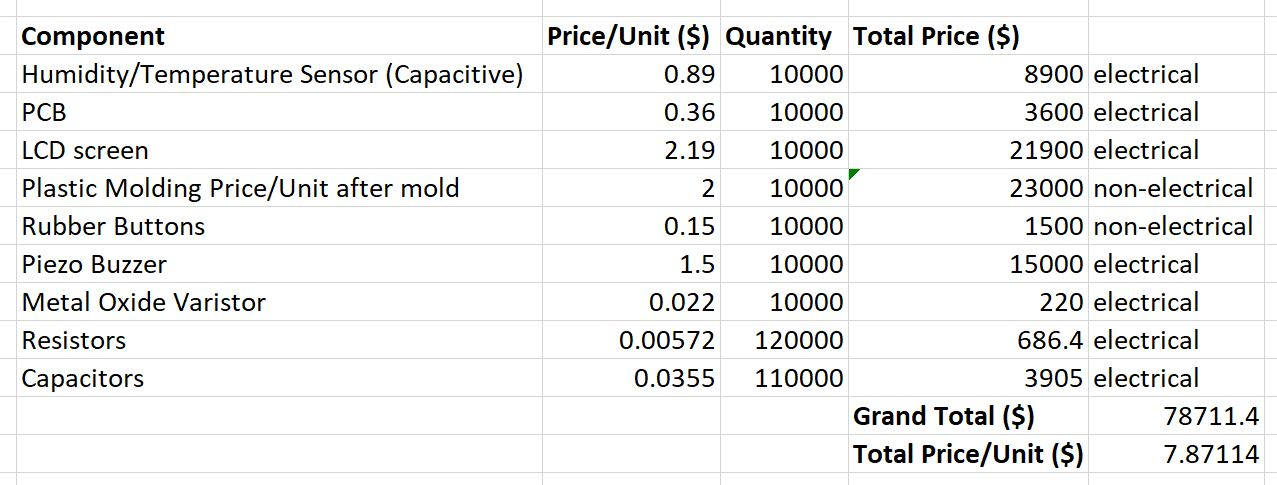
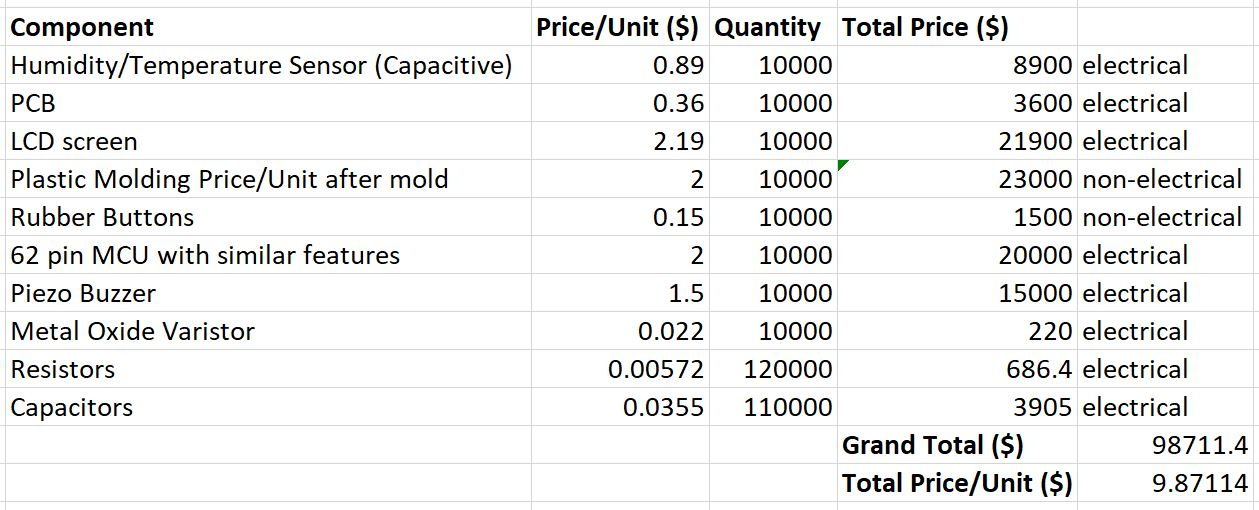
added MCU to BOM and changed some grammer

diff --git a/Market.html b/Market.html
@@ -93,11 +93,11 @@
                 <div class="u-container-layout u-container-layout-1">
                   <p class="u-large-text u-text u-text-default u-text-variant u-text-1">
                     <span style="font-weight: 700;">Product History</span>
-                    <br>La Crosse Technology is a electrical device manufacturer of weather stations, radio-controlled, clocks, and watches.The company started in 1985 and the products are in retail stores in North America. It is a low-end market electronic temperature and humidity sensor.<br>
+                    <br>La Crosse Technology is a electrical device manufacturer of weather stations, radio-controlled clocks, and watches.The company started in 1985 and the products are in retail stores in North America. It is a low-end market electronic temperature and humidity sensor.<br>
                     <span style="font-weight: 700;">Street Prices<br>
                     </span>I paid $13.98 for this device at Lowe's. Other options for the purchase of this product are directly from La Crosse ($23.95), or from other retailers, Amazon ($13.49), WeatherShack ($22.95), or Home Depot ($15.99). All of these prices are at the time of writing and are subject to change.&nbsp;<br>
                     <span style="font-weight: 700;">Retail Outlets<br>
-                    </span>La Crosse, Amazon, WeatherShack, or Home Depot.<br>
+                    </span>Lowes, La Crosse, Amazon, WeatherShack, or Home Depot.<br>
                     <span style="font-weight: 700;">Rebranded/OEM Versions</span>
                     <br>AcuRite Digital Wired Indoor White Thermometer, Digital Mini HygroMeter and Indoor Thermometer with Temperature and Humidity Monitor, AcuRite Digital Weather Station.<br>
                     <br>Bill of Materials (electrical and non-electrical)<br>

diff --git a/Home.html b/Home.html
@@ -91,7 +91,7 @@
     <section class="u-align-center u-clearfix u-section-2" id="sec-bb3d">
       <div class="u-clearfix u-sheet u-sheet-1">
         <h2 class="u-text u-text-default u-text-1">Project Report</h2>
-        <p class="u-text u-text-2">Research was done in all the area below for the device<br>
+        <p class="u-text u-text-2">Research was done in all the areas below for the device<br>
         </p>
         <div class="u-expanded-width u-list u-list-1">
           <div class="u-repeater u-repeater-1">

diff --git a/index.html b/index.html
@@ -91,7 +91,7 @@
     <section class="u-align-center u-clearfix u-section-2" id="sec-bb3d">
       <div class="u-clearfix u-sheet u-sheet-1">
         <h2 class="u-text u-text-default u-text-1">Project Report</h2>
-        <p class="u-text u-text-2">Research was done in all the area below for the device<br>
+        <p class="u-text u-text-2">Research was done in all the areas below for the device<br>
         </p>
         <div class="u-expanded-width u-list u-list-1">
           <div class="u-repeater u-repeater-1">
